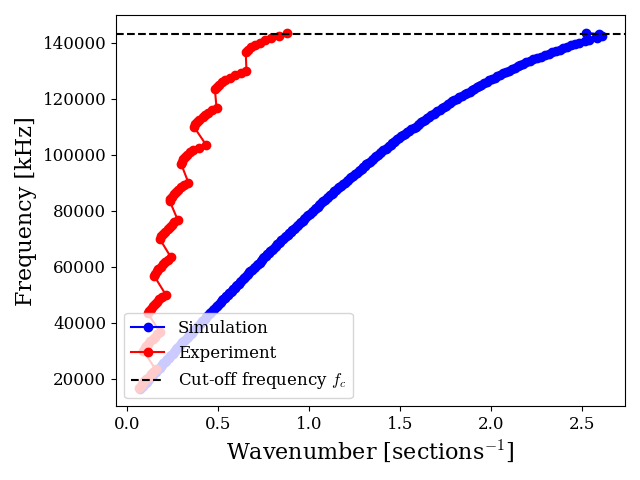
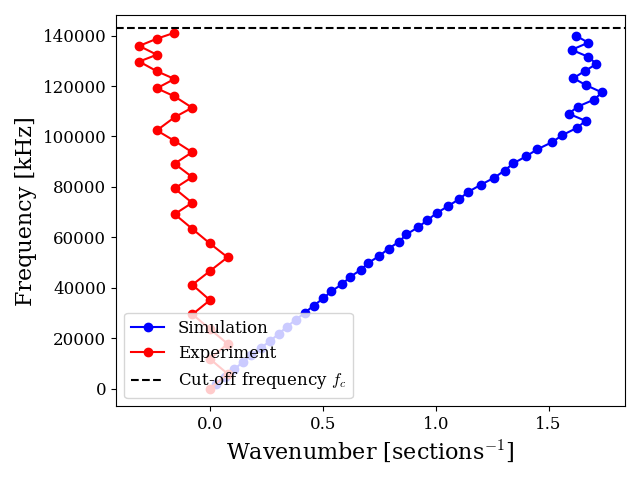
Simulation optimization precommit
- Fixed minor bugs in simulation
- Added trend comparison script
- Dispersion relation still wip

diff --git a/scripts/05_dispersion_relation.py b/scripts/05_dispersion_relation.py
@@ -51,13 +51,13 @@ def main():
     H_node_exp = df_results[f"H_Phase_{node}"].iloc[sim_index]
     k_exp = -np.unwrap(H_node_exp) / node
 
-    wrap_threshold = np.pi / node  # Half a wrap is a safe detection threshold
+    # wrap_threshold = np.pi / node  # Half a wrap is a safe detection threshold
 
-    for i in range(1, len(k_exp)):
-        if k_exp[i] < k_exp[i - 1] - wrap_threshold:
-            # A physical impossibility was detected.
-            # Add a full 2pi/node wrap to the rest of the array to undo the unwrap error.
-            k_exp[i:] += (2 * np.pi) / node
+    # for i in range(1, len(k_exp)):
+    #     if k_exp[i] < k_exp[i - 1] - wrap_threshold:
+    #         # A physical impossibility was detected.
+    #         # Add a full 2pi/node wrap to the rest of the array to undo the unwrap error.
+    #         k_exp[i:] += (2 * np.pi) / node
 
     # Find simulated data
     df_results = io.load_parquet_data(sim_dir, prefix="results_")

diff --git a/scripts/07_trend_comparison.py b/scripts/07_trend_comparison.py
@@ -1,6 +1,3 @@
-# TODO: CHANGE FILE
-# ! PLACEHOLDER FILE DO NOT USE
-
 import os
 import sys
 import argparse
@@ -51,6 +48,7 @@ def main():
 
     sim_index = 0
     H_40_exp = df_results["H_Mag_40"].iloc[sim_index]
+    coeff_exp = np.polyfit(f_exp, H_40_exp, 1)
 
     # Find simulated data
     df_results = io.load_parquet_data(sim_dir, prefix="results_")
@@ -59,6 +57,7 @@ def main():
     f_sim = df_axes["freqs_global"].iloc[0]
 
     H_40_sim = df_results["H_Mag_40"].iloc[sim_index]
+    coeff_sim = np.polyfit(f_sim, H_40_sim, 1)
 
     # Plotting logic
     _, ax1 = plt.subplots(**vis.apply_standard_style(1, 1))
@@ -68,6 +67,10 @@ def main():
         H_40_sim,
         f_exp,
         H_40_exp,
+        x_exp_trend=f_exp,
+        x_sim_trend=f_sim,
+        y_exp_trend=np.polyval(coeff_exp, f_exp),
+        y_sim_trend=np.polyval(coeff_sim, f_sim),
         vline_x=f_cutoff,
         vline_label=r"Cut-off frequency $f_c$",
     )

diff --git a/src/electrical/simulation.py b/src/electrical/simulation.py
@@ -315,10 +315,10 @@ def simulate(config_path):
 
         if sim_num == 0:
             print(
-                f"Estimated total time: {(time_start - time.time()) * num_simulations}"
+                f"Estimated total time: {(time.time() - time_start) * num_simulations / 3600} hours"
             )
         if sim_num % 100 == 0:
-            print(f"Elapsed time: {time.time() - time_start}")
+            print(f"Elapsed time: {time.time() - time_start} seconds")
     # * ------ END SIMULATION LOOP ------
     all_freqs = {"freqs_global": [freqs_global.tolist()]}
     return all_targets, all_results, all_freqs
